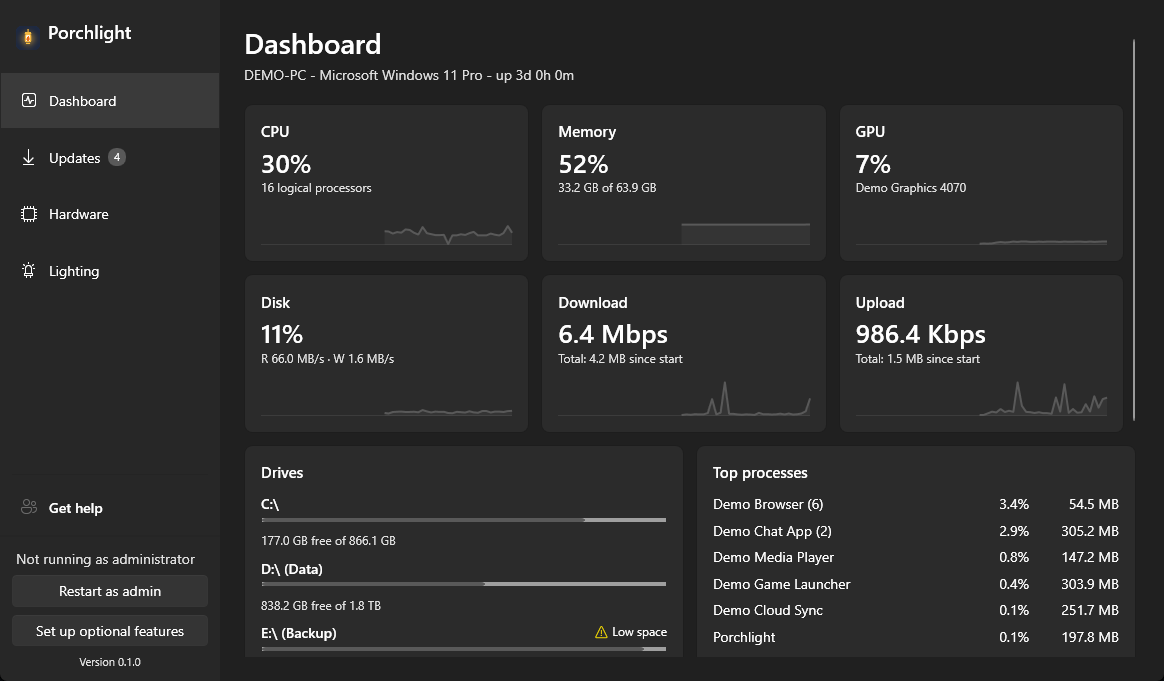
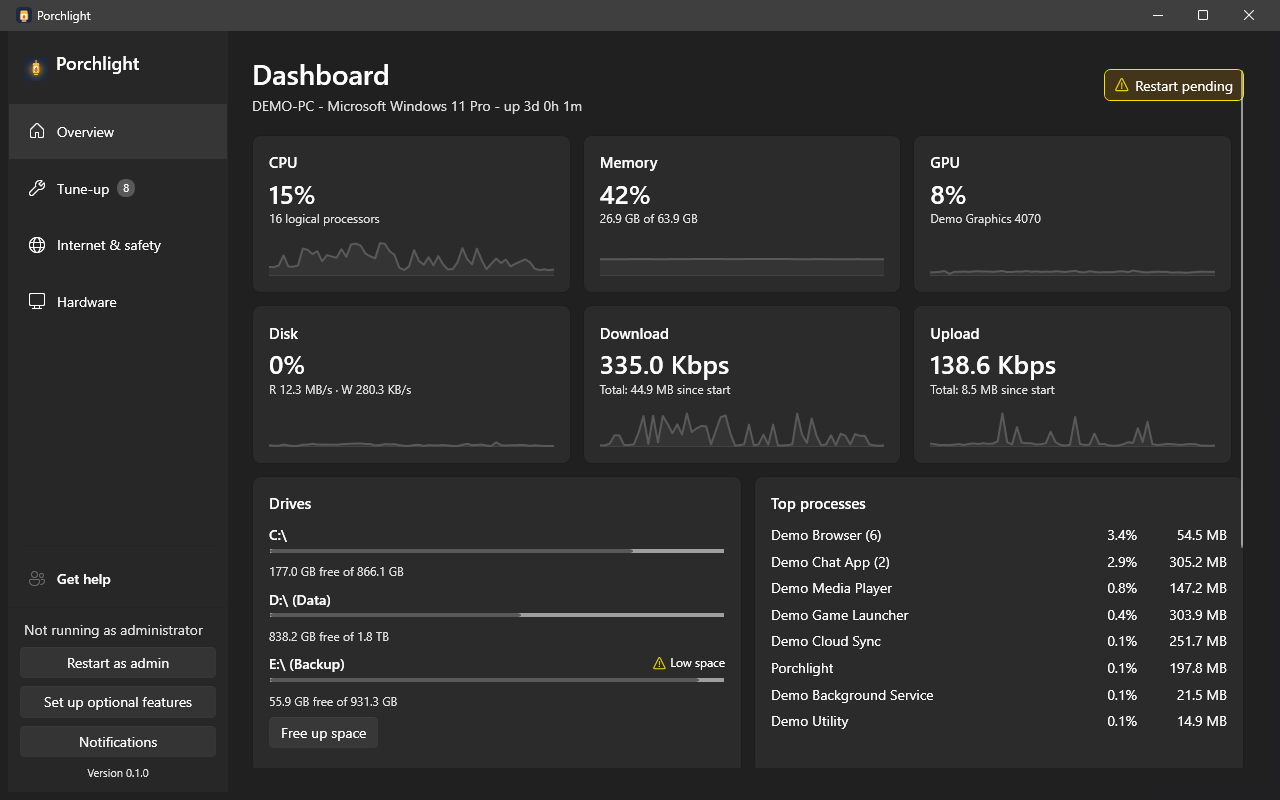
docs(readme): add screenshot tour of the app
Retake docs/screenshots with demo-data mode (main + #50 + #53) showing the category navigation, and explain each in the README.

diff --git a/README.md b/README.md
@@ -10,6 +10,45 @@ so you can help before a small problem turns into a phone call.
 
 Built with C# / .NET (WPF).
 
+## A quick tour
+
+Porchlight has a left-hand menu with a few plain-named sections; some have tabs across the top for
+related pages. (These screenshots use made-up demo data, not a real PC.)
+
+**Overview - how is the PC doing right now?**
+The Dashboard shows live tiles for CPU, memory, graphics, disk and network speed, how full each
+drive is (with a "Low space" warning), and which programs are using the most resources. It's the
+first thing you look at when someone says "the computer feels slow".
+
+![Dashboard showing live CPU, memory, GPU, disk and network tiles, drive space bars with a low-space warning, and a list of the busiest programs](docs/screenshots/dashboard.png)
+
+**Tune-up > Updates - keep programs up to date**
+Lists the programs that have a newer version available. Tick the ones you want and press
+**Update selected**; Porchlight does the rest. Programs whose version can't be read, or that are
+pinned, are flagged in the Notes column so nothing surprising gets installed.
+
+![Updates page listing programs with an installed and an available version, checkboxes to pick which to update, and an Update selected button](docs/screenshots/updates.png)
+
+**Hardware > Sensors & fans - is it running hot?**
+The big tiles at the top give the headline numbers (CPU and graphics temperature, power draw,
+hottest fan) in plain units. Below them, each part of the PC has a collapsed card you can open for
+the full list of readings.
+
+![Hardware page with tiles for CPU temperature, GPU temperature, CPU power and hottest fan, above collapsed cards for the processor, graphics card and other components](docs/screenshots/hardware.png)
+
+**Hardware > Lighting - RGB lights in one place**
+Pick a colour and brightness for every RGB device at once, or set each device (motherboard,
+keyboard, ...) on its own. There is also a section for animated effects.
+
+![Lighting page with a colour wheel, quick colour swatches, a brightness slider and a list of RGB devices](docs/screenshots/lighting.png)
+
+**Get help - let family connect in two clicks**
+Shows a short address to read out over the phone, plain step-by-step instructions, and a reminder
+to only accept a connection from someone you are talking to right now. It uses AnyDesk to make
+the connection.
+
+![Get help page showing the PC's remote-help address, a three-step how-it-works list and a safety warning about unexpected callers](docs/screenshots/get-help.png)
+
 ## Status
 
 Foundation stage: a production-shaped app shell (solution layout, host + DI, logging, settings,
